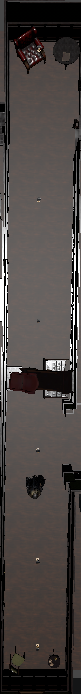
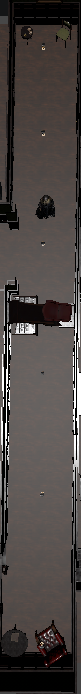
Heatmap de una sala

diff --git a/Metricas/src/spatial_heatmap.py b/Metricas/src/spatial_heatmap.py
@@ -1,0 +1,151 @@
+"""
+spatial_heatmaps.py
+===================
+Parte 4 – Visualización espacial y mapas de calor
+Responsable: Javi
+
+Desarrolla mapas de calor espaciales (M4) de los eventos de movimiento rápido.
+Asigna los datos a cuadrantes para intensificar la visualización.
+
+Dependencias:
+    pip install pandas numpy matplotlib seaborn pillow
+"""
+
+import argparse
+from pathlib import Path
+import pandas as pd
+import numpy as np
+import matplotlib.pyplot as plt
+import seaborn as sns
+from PIL import Image
+
+# Formato: [x_min, x_max, z_min, z_max]
+ROOM_BOUNDS = {
+    "Room0": [6, 16.6, 0.6, 11],
+    "Room1": [25.9, 36, -3.8, 9.7],
+    "Room2": [25.7, 36.5, -17.3, -3.9],
+    "Room3": [22, 33.6, -22.9, -12.7],
+    "Pasillo1": [0, 25.7, -3.4, 0.5],
+    "Pasillo2": [21.7, 25.5, -22.8, 11.7],
+    "Pasillo3": [33.8, 37.5, -21.3, 11.7]
+}
+
+# Carga de datos
+
+def load_telemetry(csv_path: str) -> pd.DataFrame:
+    """Carga los datos de telemetría manejando el formato del TrackerManager."""
+    try:
+        df = pd.read_csv(
+            csv_path,
+            sep=",",
+            header=None,
+            names=["event_name", "session_id", "event_id", "timestamp_ms", "pos_x", "pos_y", "pos_z"],
+            engine="python",
+            on_bad_lines="warn"
+        )
+    except Exception as e:
+        print(f"[ERROR] No se pudo leer {csv_path}: {e}")
+        return pd.DataFrame()
+        
+    df["timestamp_ms"] = pd.to_numeric(df["timestamp_ms"], errors="coerce")
+    df.dropna(subset=["event_name", "timestamp_ms"], inplace=True)
+    
+    # Limpiar columnas pos_x, pos_y, pos_z de los ';' finales
+    for col in ["pos_x", "pos_y", "pos_z"]:
+        df[col] = df[col].astype(str).str.replace(';', '', regex=False)
+        df[col] = pd.to_numeric(df[col], errors="coerce")
+        
+    df["event_name"] = df["event_name"].str.strip()
+    df.sort_values("timestamp_ms", inplace=True)
+    df.reset_index(drop=True, inplace=True)
+    return df
+
+def assign_rooms(df: pd.DataFrame) -> pd.DataFrame:
+    """Asigna la sala activa basada en los eventos Enter_<room>."""
+    rooms = []
+    current_room = "Unknown"
+    for _, row in df.iterrows():
+        name = row["event_name"]
+        if name.startswith("Enter_"):
+            current_room = name[6:]
+        rooms.append(current_room)
+    df["room"] = rooms
+    return df
+
+# Visualización de mapa de calor
+
+def plot_spatial_analysis(df: pd.DataFrame, room: str, img_path: str, output_path: str):
+    """Genera una imagen con 1 subplots. """
+    
+    df_room = df[df["room"] == room].copy()
+    if df_room.empty:
+        print(f"[AVISO] No hay datos para la sala {room}.")
+        return
+
+    df_stress = df_room[df_room["event_name"].isin(["Quick_Jitter_Move", "Quick_HMD_Move"])].copy()
+
+    # Cargar fondo
+    try:
+        bg_img = Image.open(img_path)
+    except Exception as e:
+        print(f"[ERROR] No se pudo cargar el mapa {img_path}: {e}")
+        # Crear imagen negra por defecto si falta
+        bg_img = Image.new('RGB', (800, 800), color=(30, 30, 30))
+
+    # Determinar límites espaciales
+    if room in ROOM_BOUNDS:
+        extent = ROOM_BOUNDS[room]
+    else:
+        print(f"[AVISO] Límites de {room} no definidos en ROOM_BOUNDS. Usando bounding box dinámico (puede deformar el mapa).")
+        extent = [
+            df_room["pos_x"].min() - 5 if not df_room["pos_x"].isna().all() else 0,
+            df_room["pos_x"].max() + 5 if not df_room["pos_x"].isna().all() else 100,
+            df_room["pos_z"].min() - 5 if not df_room["pos_z"].isna().all() else 0,
+            df_room["pos_z"].max() + 5 if not df_room["pos_z"].isna().all() else 100
+        ]
+
+    plt.style.use("dark_background")
+    fig, ax = plt.subplots(1, 1, figsize=(8, 8), facecolor="#1a1a2e")
+    fig.suptitle(f"Análisis espacial - {room}", fontsize=18, color="white", fontweight="bold", y=0.98)
+
+    ax.imshow(bg_img, extent=extent, aspect="auto", alpha=0.5)
+    ax.set_xlim(extent[0], extent[1])
+    ax.set_ylim(extent[2], extent[3])
+    ax.set_xlabel("Eje X (Mundo)", color="white")
+    ax.set_ylabel("Eje Z (Mundo)", color="white")
+    ax.tick_params(colors="white")
+    for spine in ax.spines.values():
+        spine.set_edgecolor("#333355")
+
+    # Tensión espacial (Scatter)
+    ax.set_title("M4: Tensión espacial", fontsize=14, color="white", pad=15)
+    
+    if not df_stress.empty:
+        sns.scatterplot(
+            x=df_stress["pos_x"], y=df_stress["pos_z"],
+            hue=df_stress["event_name"], palette={"Quick_Jitter_Move": "#ffffff", "Quick_HMD_Move": "#d9ff00"},
+            ax=ax, s=50, edgecolor="white", alpha=0.9
+        )
+        ax.legend(loc="upper right", fontsize=9)
+    else:
+        ax.text(0.5, 0.5, "Sin eventos de estrés", ha="center", va="center", color="white", transform=ax.transAxes)
+
+    plt.tight_layout(rect=[0, 0, 1, 0.95])
+    plt.savefig(output_path, dpi=150, facecolor=fig.get_facecolor(), bbox_inches="tight")
+
+if __name__ == "__main__":
+    parser = argparse.ArgumentParser(description="Genera mapas de calor de tensión espacial para cada sala del juego.")
+    parser.add_argument("--csv", default="metricas_test/telemetry_0.csv", help="Archivo de telemetría CSV")
+    parser.add_argument("--map-image", default="mapas/Room0.png", help="Imagen de fondo del mapa")
+    parser.add_argument("--room", default="Room0", help="Sala a visualizar")
+    parser.add_argument("--output", default="spatial_heatmap.png", help="Archivo de salida PNG")
+    args = parser.parse_args()
+
+    print(f"Generando mapa de calor para la sala: {args.room}")
+    df = load_telemetry(args.csv)
+    if df.empty:
+        exit(1)
+        
+    df = assign_rooms(df)
+    
+    plot_spatial_analysis(df, args.room, args.map_image, args.output)
